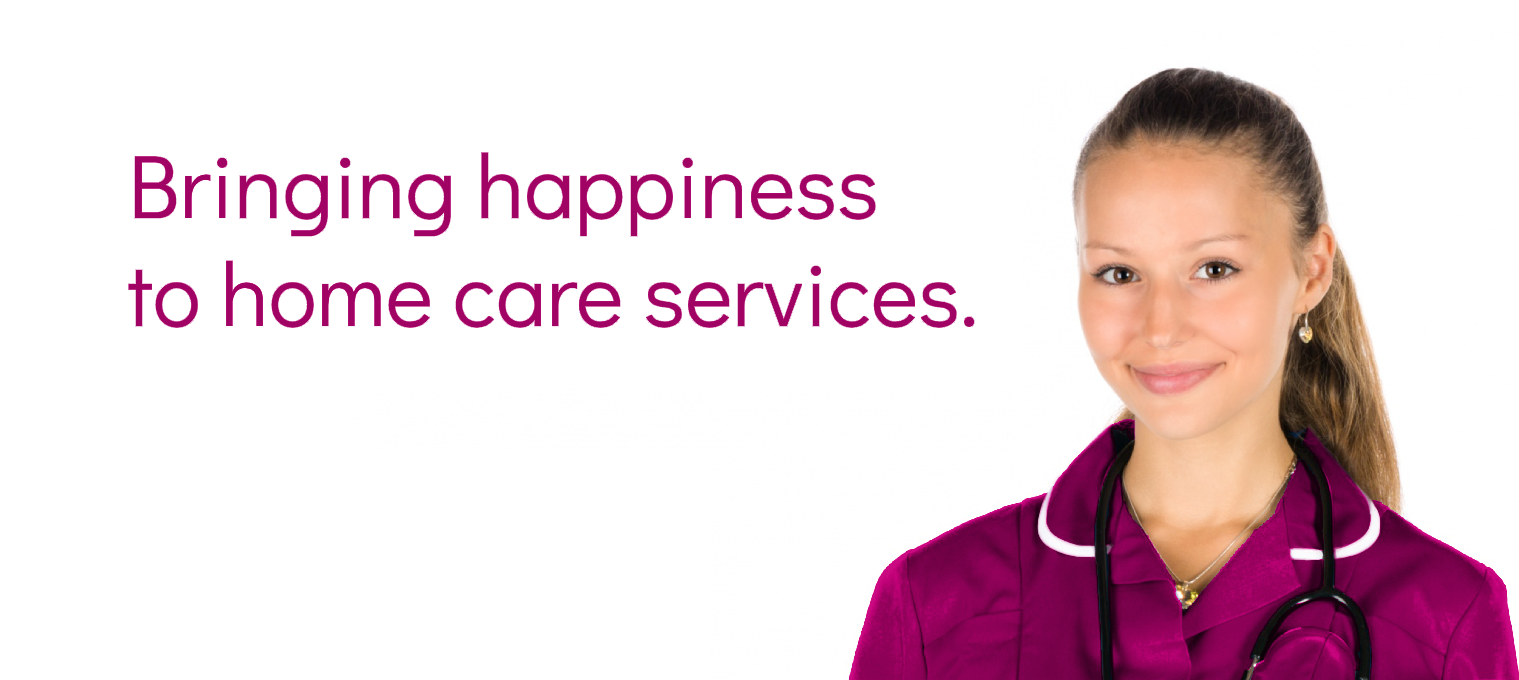
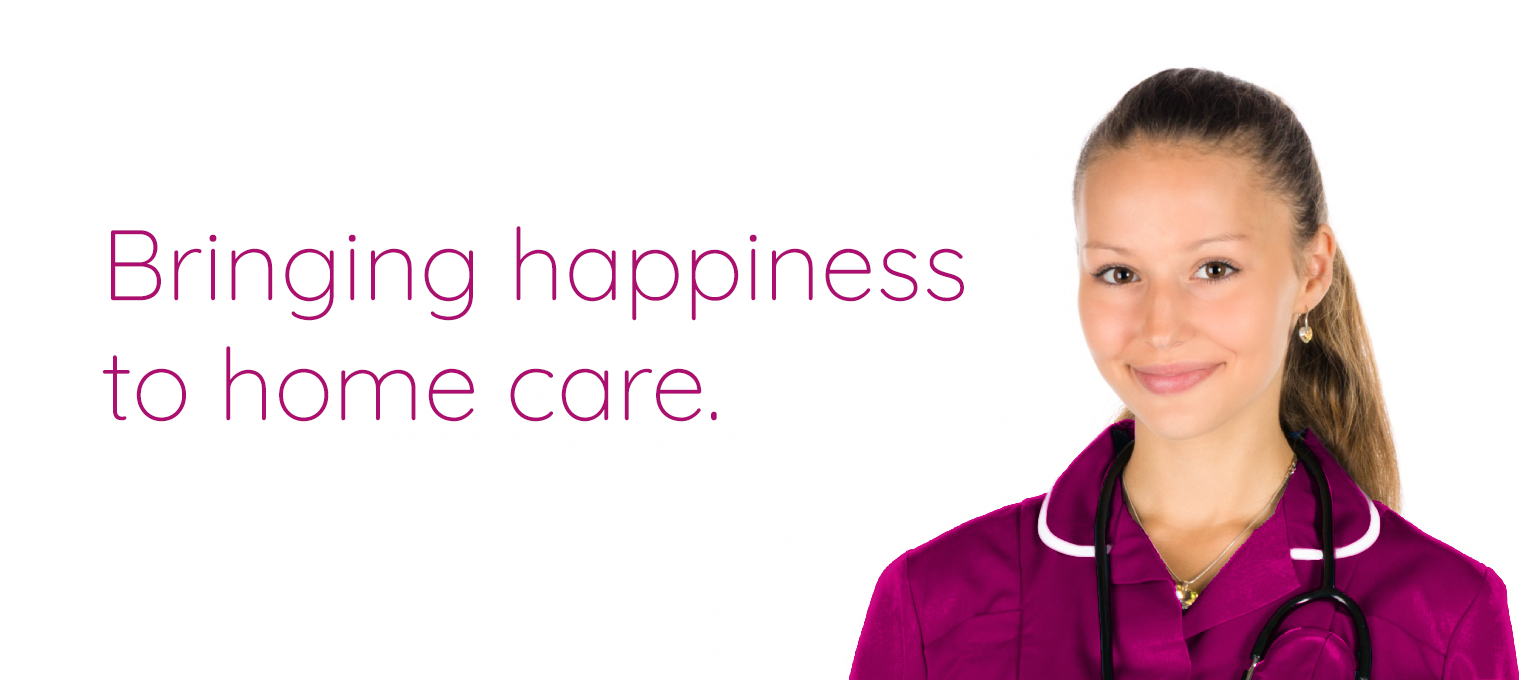
commit

Changed region(s): [[0.0619, 0.2162, 0.6498, 0.4941], [0.0619, 0.525, 0.3404, 0.6176], [0.3404, 0.525, 0.4641, 0.6176]]

diff --git a/about.html b/about.html
@@ -81,16 +81,9 @@
       </header>
     </div>
     <div id="wrapper">
-        <!-- START - HOME -->
-        <div class="section bringing-happiness-to-home-care-services"
-             id="home"
-             style="background-position: center bottom;
-                    min-height: 800px;">
-        </div>
-        <!-- END - HOME -->
         
-        <!-- START - WE PUT THE VALUE OF HUMAN LIFE AT A HIGHER LEVEL. -->
-        <div class="section row" style="margin-top: -3%;">
+        <!-- START - MISSION -->
+        <div class="section row">
           <div class="columns-container" style="width: 100%; flex-flow: column row wrap;">
             
             <div class="column"
@@ -125,7 +118,7 @@
             
           </div>
         </div>
-        <!-- END - WE PUT THE VALUE OF HUMAN LIFE AT A HIGHER LEVEL -->
+        <!-- END - MISSION -->
         
         <!-- ======= CONTACT ======= -->
       <section id="contact" class="contact">
